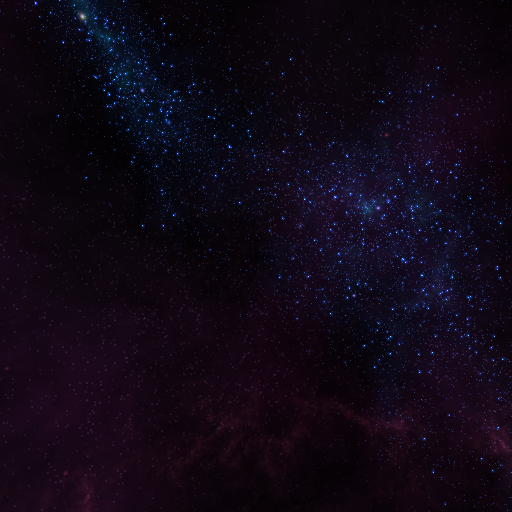
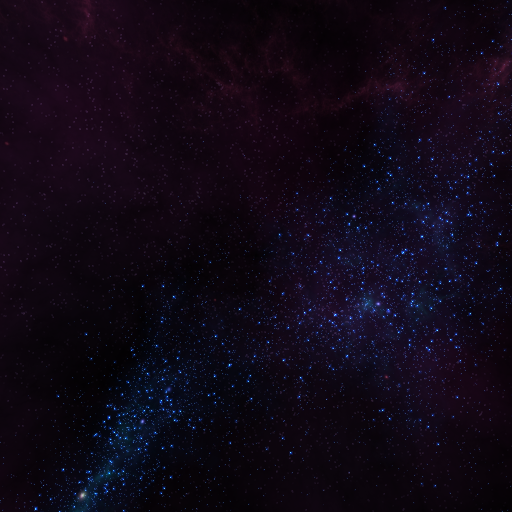
Fix skyboces

diff --git a/src/core/scene_ctx.cpp b/src/core/scene_ctx.cpp
@@ -40,9 +40,9 @@ const attr_material_t& scene_ctx::get_mtl_id_attr() const
 }
 void scene_ctx::draw(const mgl::context& glctx, const scene_ctx_uniforms& mats)
 {
+	m_skybox->draw(mats.view, mats.proj);
 	m_draw_vaos(glctx, mats, m_sm_ros_for_mtl);
 	m_draw_vaos(glctx, mats, m_sg_ros_for_mtl);
-	m_skybox->draw(mats.view, mats.proj);
 }
 void scene_ctx::update()
 {

diff --git a/src/util/util.h b/src/util/util.h
@@ -198,7 +198,6 @@ namespace u
 			stbi_set_flip_vertically_on_load(true);
 			int w = -1, h = -1, c = -1;
 			tex[i] = stbi_load(fps[i].c_str(), &w, &h, &c, 3);
-			assert(c == 3);
 			if (aw == -1)
 			{
 				aw = w;
